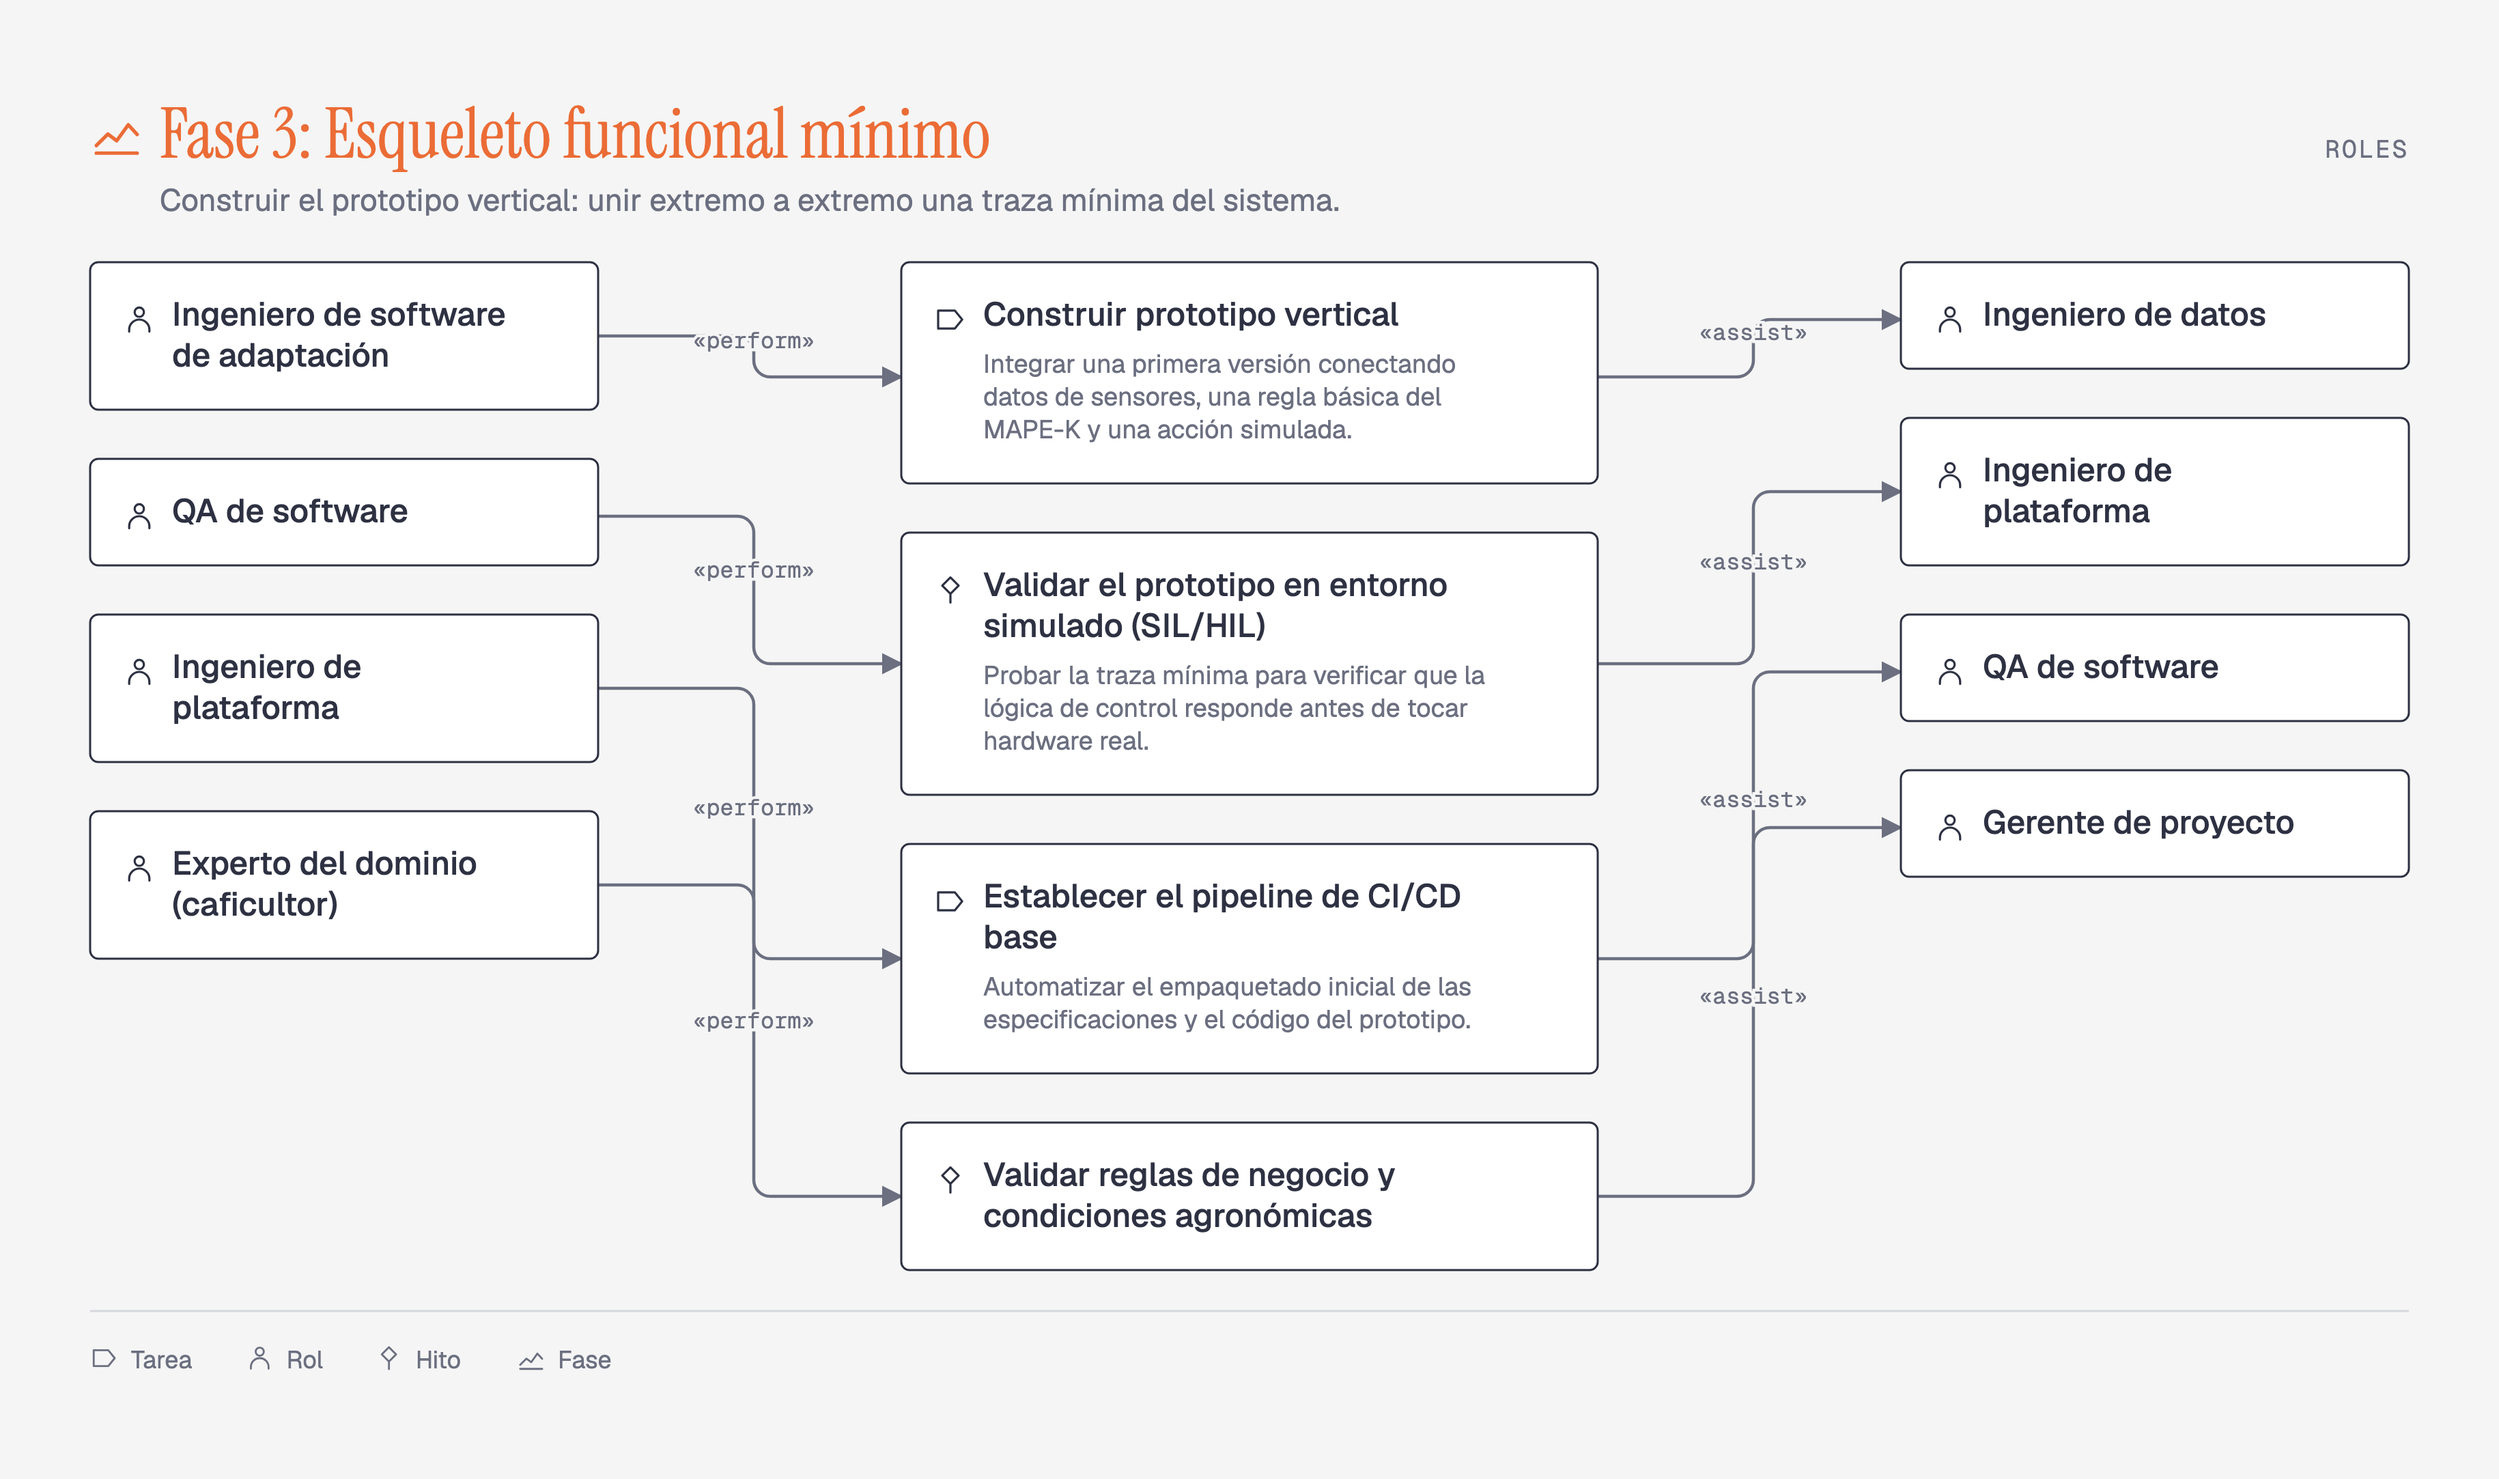
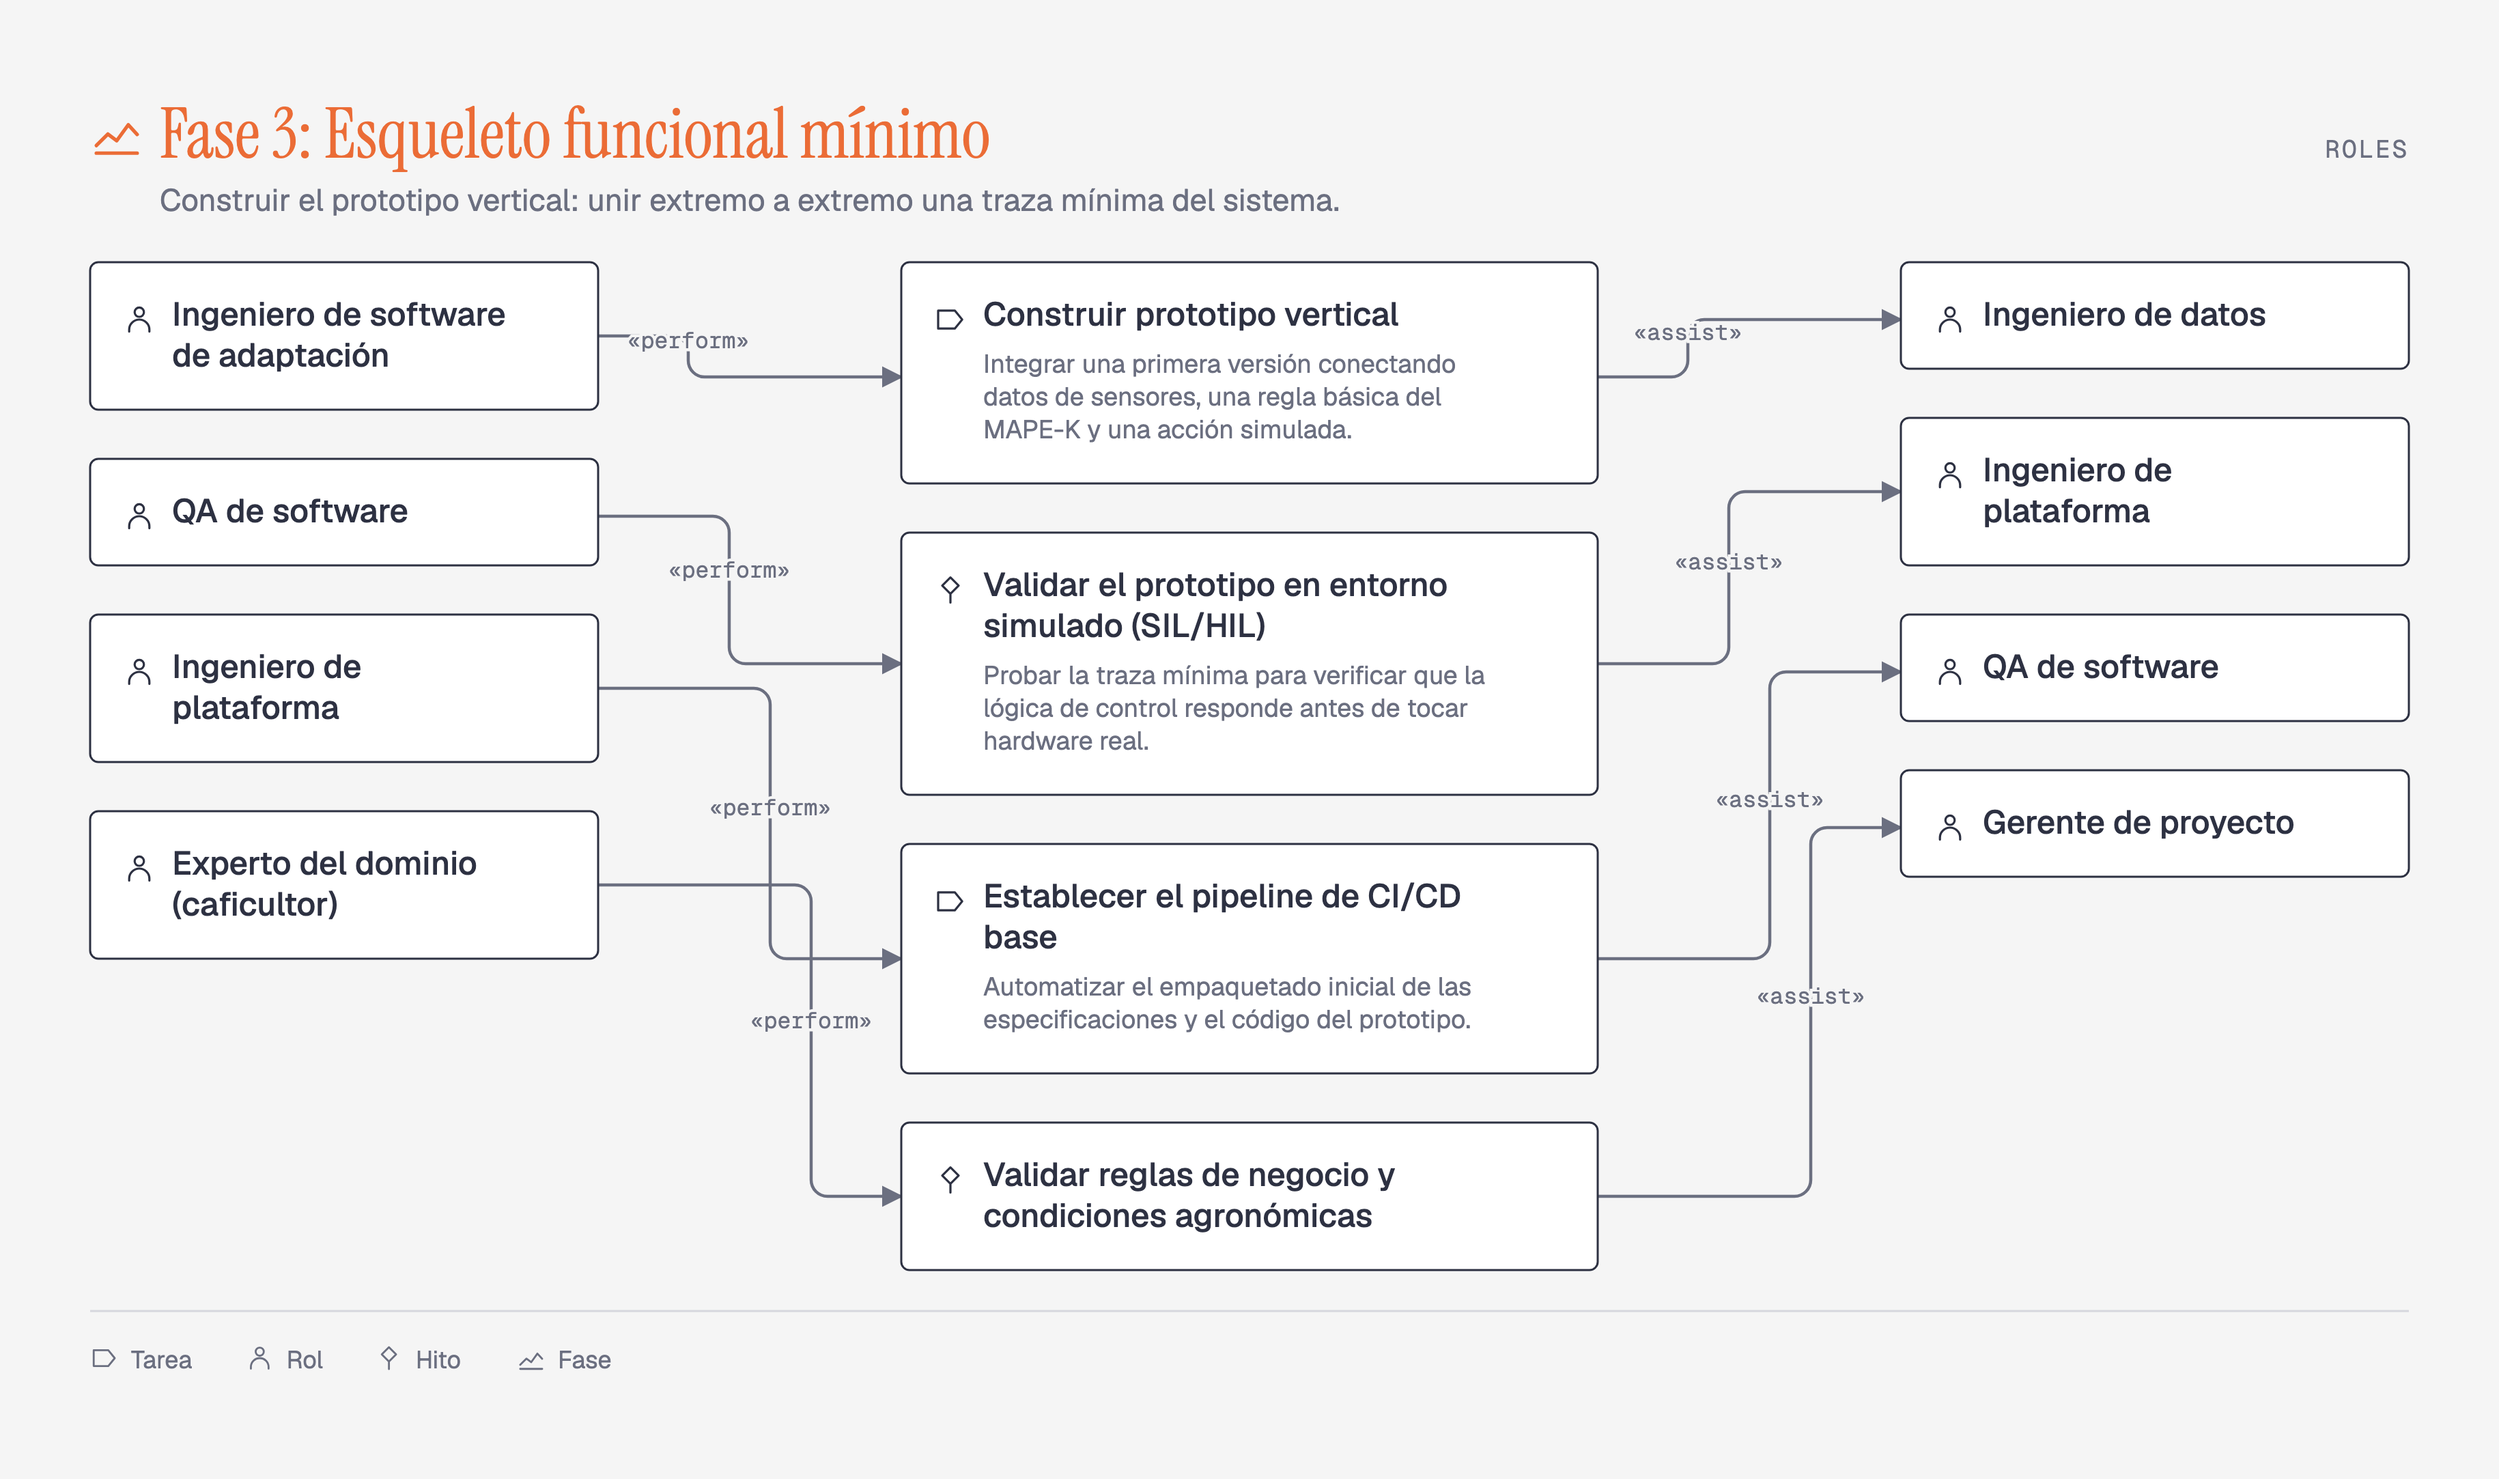
fix: hallazgos del code review de las cuatro vistas
- roles.ts: el renombrado en cascada solo se aplica cuando cambia una
  sola fila. Reordenar los Roles de la Fase con las flechas ↑/↓ producía
  un renombrado posicional doble que intercambiaba los papeles de todas
  las Tareas, y lo persistía sin deshacer.
- layout.ts: las aristas que comparten canal reparten su tramo vertical
  en vez de solaparse en una sola línea; con once aristas la vista de
  Roles era ilegible. Las etiquetas de estereotipo que caían en el mismo
  punto se separan en vertical.
- Editor.tsx: clave de React por índice, para dos Roles con el mismo
  texto.
- Tests: el de reordenar comprueba los papeles, no solo los nombres, y
  dos nuevos cubren el reparto de giros y las etiquetas superpuestas.
- Las dieciséis figuras, regeneradas.

diff --git a/src/layout.ts b/src/layout.ts
@@ -211,10 +211,16 @@ function caja(
   };
 }
 
-/** Rounded right-angle elbow: out, turn, across, turn, in. Never a diagonal. */
-const codo = (x1: number, y1: number, x2: number, y2: number) => {
+/**
+ * Rounded right-angle elbow: out, turn, across, turn, in. Never a diagonal.
+ *
+ * `giro` places the vertical run. Two elbows that share a channel and take the
+ * default midpoint lie on top of each other, which in a view with eleven edges
+ * merges them into one unreadable spine, so the caller staggers them.
+ */
+const codo = (x1: number, y1: number, x2: number, y2: number, giro?: number) => {
   if (Math.abs(y2 - y1) < RADIO * 2) return `M ${x1} ${y1} L ${x2} ${y1}`;
-  const mx = cuadricula((x1 + x2) / 2);
+  const mx = giro === undefined ? cuadricula((x1 + x2) / 2) : cuadricula(giro);
   const baja = y2 > y1 ? 1 : -1;
   const a = `A ${RADIO} ${RADIO} 0 0 ${baja > 0 ? 1 : 0} ${mx} ${y1 + RADIO * baja}`;
   const b = `A ${RADIO} ${RADIO} 0 0 ${baja > 0 ? 0 : 1} ${mx + RADIO} ${y2}`;
@@ -239,11 +245,51 @@ const rama = (x1: number, y1: number, x2: number, y2: number) =>
 
 const centro = (n: { y: number; h: number }) => cuadricula(n.y + n.h / 2);
 
-const etiquetaEntre = (texto: string, x1: number, y1: number, x2: number, y2: number) => ({
+const etiquetaEntre = (
+  texto: string,
+  x1: number,
+  y1: number,
+  x2: number,
+  y2: number,
+  giro?: number,
+) => ({
   texto,
-  x: cuadricula((x1 + x2) / 2),
+  // Sobre el tramo vertical del codo, que es donde la arista es identificable.
+  x: cuadricula(giro === undefined ? (x1 + x2) / 2 : giro),
   y: cuadricula((y1 + y2) / 2) - 6,
 });
+
+/**
+ * Spreads the vertical runs of the elbows that share one channel, so a Fase with
+ * eleven edges draws eleven traceable lines instead of one merged spine.
+ */
+const giros = (n: number, desde: number, hasta: number) => {
+  const margen = 28;
+  const util = hasta - desde - margen * 2;
+  const paso = n > 1 ? Math.min(20, util / (n - 1)) : 0;
+  const ancho = paso * (n - 1);
+  const inicio = desde + margen + (util - ancho) / 2;
+  return Array.from({ length: n }, (_, i) => inicio + i * paso);
+};
+
+/**
+ * Nudges apart labels that landed on the same spot. Two edges whose endpoints
+ * average to the same point print their stereotype twice superimposed, which
+ * reads as a smudge; this walks them upwards until each one stands alone.
+ */
+function separarEtiquetas(flechas: Flecha[]) {
+  const puestas: { x: number; y: number }[] = [];
+  for (const f of flechas) {
+    if (!f.etiqueta) continue;
+    while (
+      puestas.some(
+        (p) => Math.abs(p.x - f.etiqueta!.x) < 96 && Math.abs(p.y - f.etiqueta!.y) < 16,
+      )
+    )
+      f.etiqueta.y -= 16;
+    puestas.push({ x: f.etiqueta.x, y: f.etiqueta.y });
+  }
+}
 
 type Marco = {
   width: number;
@@ -501,28 +547,32 @@ function flujo(fase: Fase): DiagramLayout {
     centrar(izq, alto(izq));
     centrar(der, alto(der));
 
-    for (const n of izq)
+    const girosIzq = giros(izq.length, PAD + PANEL_W, TAREAS_XE);
+    for (const [i, n] of izq.entries())
       flechas.push({
         tipo: "consume",
-        d: codo(n.x + n.w, centro(n), centrada.x, centro(centrada)),
+        d: codo(n.x + n.w, centro(n), centrada.x, centro(centrada), girosIzq[i]),
         etiqueta: etiquetaEntre(
           ESTEREOTIPOS.entrada,
           n.x + n.w,
           centro(n),
           centrada.x,
           centro(centrada),
+          girosIzq[i],
         ),
       });
-    for (const n of der)
+    const girosDer = giros(der.length, TAREAS_XE + NODE_W, DERECHA_XE);
+    for (const [i, n] of der.entries())
       flechas.push({
         tipo: "produce",
-        d: codo(centrada.x + centrada.w, centro(centrada), n.x, centro(n)),
+        d: codo(centrada.x + centrada.w, centro(centrada), n.x, centro(n), girosDer[i]),
         etiqueta: etiquetaEntre(
           ESTEREOTIPOS.salida,
           centrada.x + centrada.w,
           centro(centrada),
           n.x,
           centro(n),
+          girosDer[i],
         ),
       });
 
@@ -541,6 +591,7 @@ function flujo(fase: Fase): DiagramLayout {
     });
   }
 
+  separarEtiquetas(flechas);
   const fondo = Math.max(marco.filaY, ...nodos.map((n) => n.y + n.h));
   const usados = new Set<IdIcono>([
     "phase",
@@ -596,39 +647,45 @@ function roles(fase: Fase): DiagramLayout {
   const buscar = (col: Nodo[], prefijo: string, rol: string) =>
     col.find((n) => n.id === `${prefijo}-${rol}`)!;
 
-  const flechas: Flecha[] = [];
+  // Cada canal se recorre entero antes de dibujar: el reparto de los tramos
+  // verticales depende de cuántas aristas comparten el canal.
+  type Par = { origen: Nodo; destino: Nodo; texto: string };
+  const perform: Par[] = [];
+  const assist: Par[] = [];
   for (const [i, tarea] of fase.tareas.entries()) {
     const destino = tareas[i];
-    for (const r of tarea.roles) {
-      if (r.papel === "perform") {
-        const origen = buscar(ejecutan, "perform", r.rol);
-        flechas.push({
-          tipo: "flujo",
-          d: codo(origen.x + origen.w, centro(origen), destino.x, centro(destino)),
-          etiqueta: etiquetaEntre(
-            ESTEREOTIPOS.perform,
-            origen.x + origen.w,
-            centro(origen),
-            destino.x,
-            centro(destino),
-          ),
+    for (const r of tarea.roles)
+      if (r.papel === "perform")
+        perform.push({
+          origen: buscar(ejecutan, "perform", r.rol),
+          destino,
+          texto: ESTEREOTIPOS.perform,
         });
-      } else {
-        const fin = buscar(asisten, "assist", r.rol);
-        flechas.push({
-          tipo: "flujo",
-          d: codo(destino.x + destino.w, centro(destino), fin.x, centro(fin)),
-          etiqueta: etiquetaEntre(
-            ESTEREOTIPOS.assist,
-            destino.x + destino.w,
-            centro(destino),
-            fin.x,
-            centro(fin),
-          ),
+      else
+        assist.push({
+          origen: destino,
+          destino: buscar(asisten, "assist", r.rol),
+          texto: ESTEREOTIPOS.assist,
         });
-      }
-    }
   }
+
+  const flechas: Flecha[] = [];
+  const canal = (pares: Par[], desde: number, hasta: number) => {
+    const gs = giros(pares.length, desde, hasta);
+    for (const [i, { origen, destino, texto }] of pares.entries()) {
+      const x1 = origen.x + origen.w;
+      const y1 = centro(origen);
+      const y2 = centro(destino);
+      flechas.push({
+        tipo: "flujo",
+        d: codo(x1, y1, destino.x, y2, gs[i]),
+        etiqueta: etiquetaEntre(texto, x1, y1, destino.x, y2, gs[i]),
+      });
+    }
+  };
+  canal(perform, PAD + PANEL_W, TAREAS_XE);
+  canal(assist, TAREAS_XE + NODE_W, DERECHA_XE);
+  separarEtiquetas(flechas);
 
   const nodos = [...ejecutan, ...tareas, ...asisten];
   const fondo = Math.max(filaY, ...nodos.map((n) => n.y + n.h));
@@ -650,8 +707,9 @@ function roles(fase: Fase): DiagramLayout {
 
 /** The Fase as root and its Tareas hanging off it: the index view. */
 function descomposicion(fase: Fase): DiagramLayout {
-  // Same canvas width as the other views: the tree is narrow, but the title is
-  // not, and the four figures of a Fase are read side by side in the document.
+  // Same canvas width as the Resumen: the tree is narrow, but the title is not,
+  // and the two figures of a Fase are read side by side in the document. Flujo
+  // and Roles are wider because their edges carry a stereotype.
   const marco = encabezado(fase, "descomposicion", ANCHO, false);
 
   const raiz = caja(fase.id, fase.nombre, undefined, "phase", PAD, marco.filaY, NODE_W);

diff --git a/src/__tests__/vistas.test.ts b/src/__tests__/vistas.test.ts
@@ -68,6 +68,33 @@ describe("las cuatro vistas", () => {
   });
 });
 
+describe("aristas y estereotipos", () => {
+  it("separa el tramo vertical de las aristas que comparten canal", () => {
+    // La Fase 4 dibuja seis aristas «perform» desde la misma columna, apiladas a
+    // lo largo de toda la figura: con un solo giro se fundirían en una vertical
+    // imposible de seguir. Cada arista del canal gira en su propia x.
+    for (const fase of fases) {
+      const l = layout(fase, "roles");
+      for (const estereotipo of [ESTEREOTIPOS.perform, ESTEREOTIPOS.assist]) {
+        const giros = l.flechas
+          .filter((f) => f.etiqueta?.texto === estereotipo)
+          .map((f) => f.etiqueta!.x);
+        if (giros.length > 1) expect(new Set(giros).size).toBe(giros.length);
+      }
+    }
+  });
+
+  it("no imprime dos estereotipos en el mismo punto", () => {
+    for (const fase of fases)
+      for (const vista of VISTAS) {
+        const puestas = layout(fase, vista)
+          .flechas.filter((f) => f.etiqueta)
+          .map((f) => `${f.etiqueta!.x},${f.etiqueta!.y}`);
+        expect(new Set(puestas).size).toBe(puestas.length);
+      }
+  });
+});
+
 describe("vista Descomposición", () => {
   const vista: Vista = "descomposicion";
 

diff --git a/src/roles.ts b/src/roles.ts
@@ -5,13 +5,18 @@ import type { Fase } from "./modelo";
  * renamed in the Fase is renamed in every Tarea that used it, and a Rol deleted
  * from the Fase disappears from them, so no Tarea points at a Rol the Fase lacks.
  *
- * Rename is detected positionally, which is what the list editor produces: it
- * edits in place and reorders or deletes whole rows, never both at once.
+ * Rename is detected positionally, and only when exactly one row changed: that
+ * is what typing into the list editor produces. Reordering changes two rows at
+ * once, and reading it as a double rename would swap the papeles of the two
+ * Roles in every Tarea; deleting changes the length. Both are left alone.
  */
 export function aplicarRoles(fase: Fase, nuevos: string[]): Fase {
   const renombres = new Map<string, string>();
   if (nuevos.length === fase.roles.length) {
-    for (const [i, viejo] of fase.roles.entries()) renombres.set(viejo, nuevos[i]);
+    const cambiadas = fase.roles.flatMap((viejo, i) =>
+      viejo === nuevos[i] ? [] : [[viejo, nuevos[i]] as const],
+    );
+    if (cambiadas.length === 1) renombres.set(cambiadas[0][0], cambiadas[0][1]);
   }
   const vigentes = new Set(nuevos);
 

diff --git a/src/Editor.tsx b/src/Editor.tsx
@@ -98,10 +98,12 @@ export function Editor({ fase, onChange }: Props) {
                     Declara Roles en la Fase para poder asignarlos.
                   </p>
                 )}
-                {fase.roles.map((rol) => {
+                {fase.roles.map((rol, k) => {
                   const actual = tarea.roles.find((r) => r.rol === rol)?.papel ?? "";
                   return (
-                    <label className="papel" key={rol}>
+                    // Dos Roles recién añadidos comparten el nombre vacío: la
+                    // posición es lo único que distingue una fila de la otra.
+                    <label className="papel" key={`${k}-${rol}`}>
                       <span>{rol}</span>
                       <select
                         value={actual}

diff --git a/src/__tests__/roles.test.ts b/src/__tests__/roles.test.ts
@@ -38,9 +38,11 @@ describe("aplicarRoles", () => {
 
   it("conserva los papeles al reordenar la lista de Roles", () => {
     const r = aplicarRoles(fase, ["Beto", "Ana"]);
-    // Reordenar es un renombrado posicional doble: los papeles siguen al puesto.
-    expect(r.tareas[0].roles.map((x) => x.rol).sort()).toEqual(["Ana", "Beto"]);
-    expect(r.tareas[0].roles).toHaveLength(2);
+    // Reordenar mueve filas, no renombra: cada Rol conserva su papel.
+    expect(r.tareas[0].roles).toEqual([
+      { rol: "Ana", papel: "perform" },
+      { rol: "Beto", papel: "assist" },
+    ]);
   });
 
   it("no deja nunca una Tarea apuntando a un Rol que la Fase no declara", () => {
